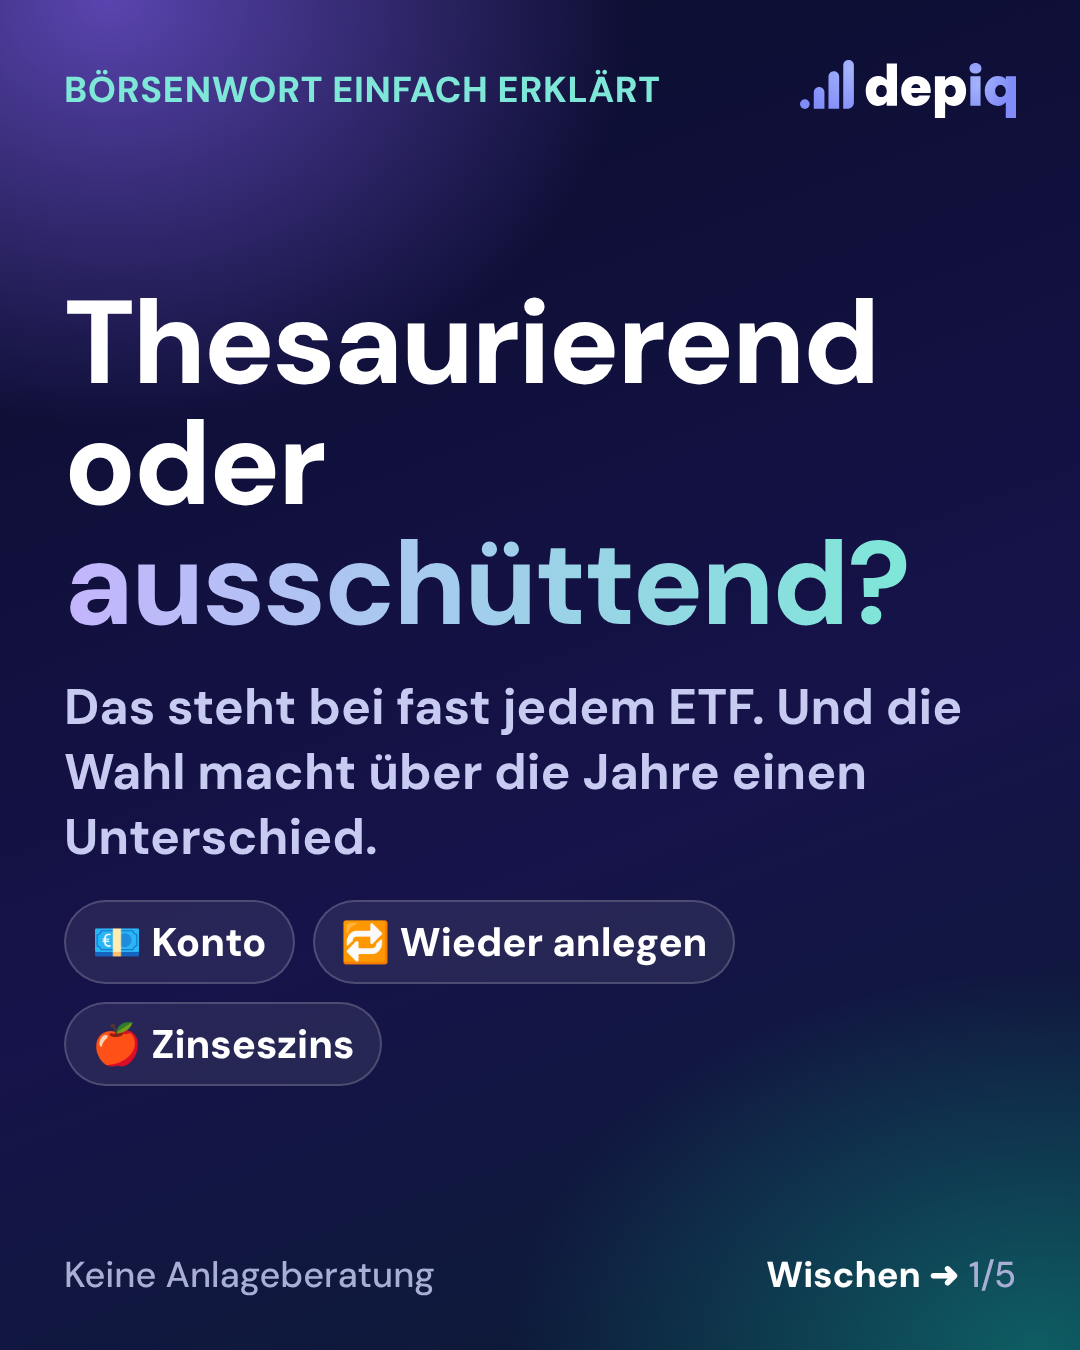
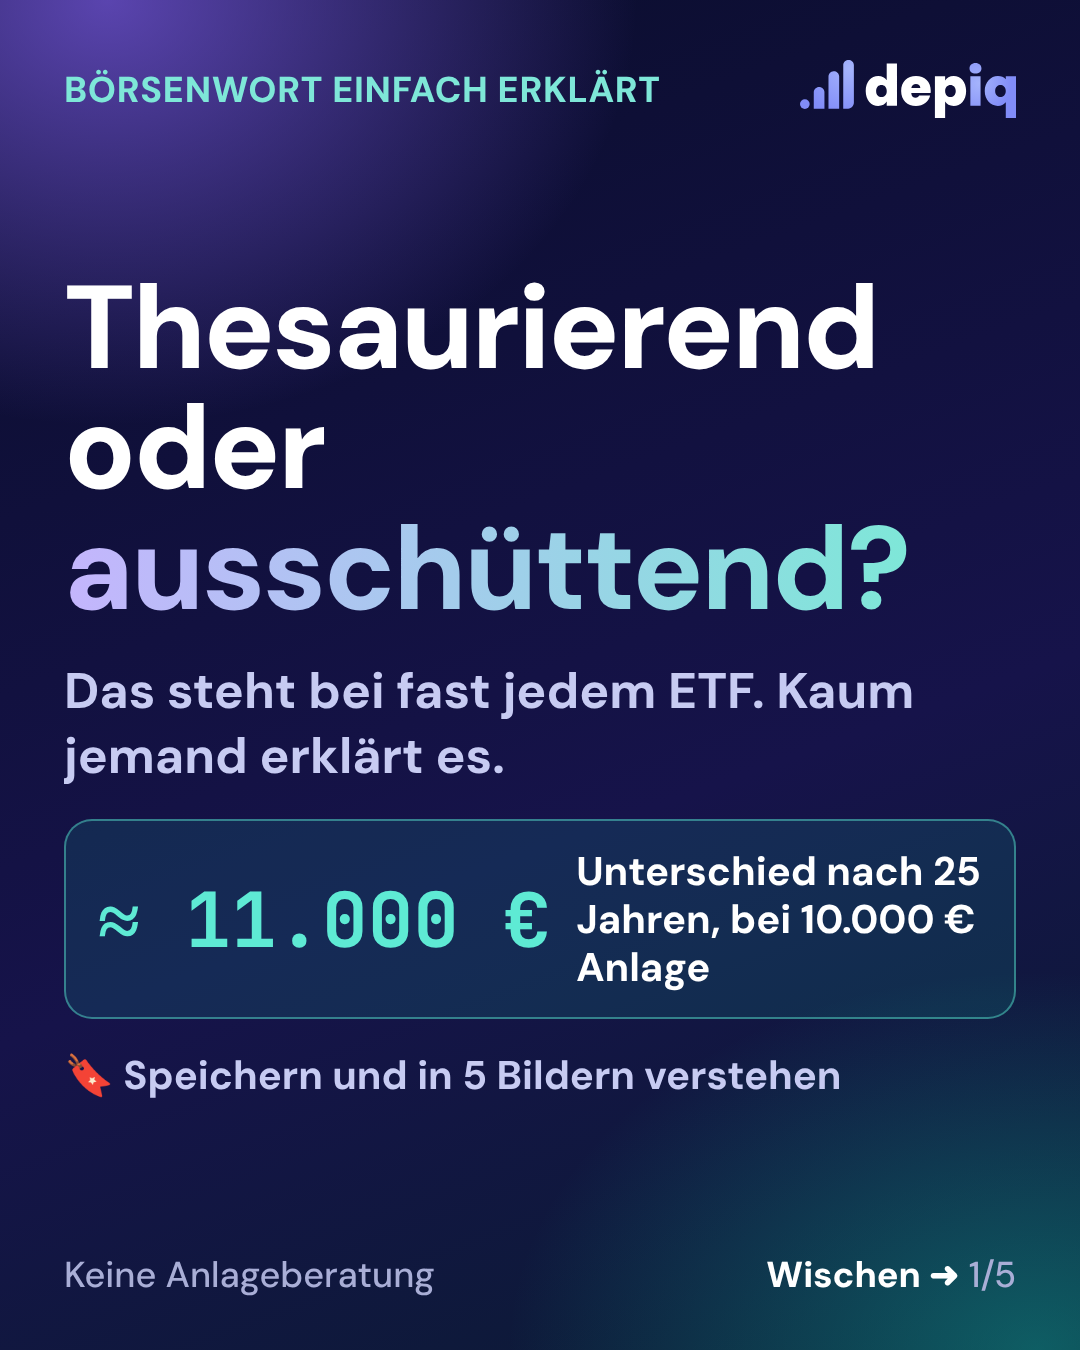
Karussell: Zahlen-Haken auf Titelseite, E-Book-Aufruf auf letzter Seite
Claude-Session: https://claude.ai/code/session_01TCMRwfkoPUXt6cdHJjM9Lg

diff --git a/vorlage/karussell.html b/vorlage/karussell.html
@@ -39,6 +39,8 @@ p b{color:#fff;font-weight:800}
 .fuss{display:flex;justify-content:space-between;align-items:center;font-size:36px;color:#a9aed6;font-weight:500}
 .weiter{color:#fff;font-weight:800}
 .marken{display:flex;gap:18px;flex-wrap:wrap}.marken span{font-size:40px;font-weight:800;padding:14px 26px;border-radius:999px;background:rgba(255,255,255,.08);border:2px solid rgba(255,255,255,.18)}
+.zahl{display:flex;align-items:center;gap:26px;padding:26px 32px;border-radius:28px;background:rgba(20,184,166,.14);border:2px solid rgba(94,234,212,.45)}.zahl b{font-family:'JB';font-size:76px;color:#5eead4;white-space:nowrap}.zahl span{font-size:40px;font-weight:700;line-height:1.2}
+.cta{display:flex;flex-direction:column;gap:10px;padding:26px 32px;border-radius:28px;background:#fff;color:#16134a}.cta strong{font-size:44px;font-weight:800}.cta span{font-size:38px;font-weight:700;color:#4f46e5}
 </style></head><body><div class="bg"></div>
 <div class="seite"><div class="kopf"><span class="serie" id="serie"></span><img src="logo-dark.svg" alt="depiq"></div>
 <div class="inhalt" id="inhalt"></div>
